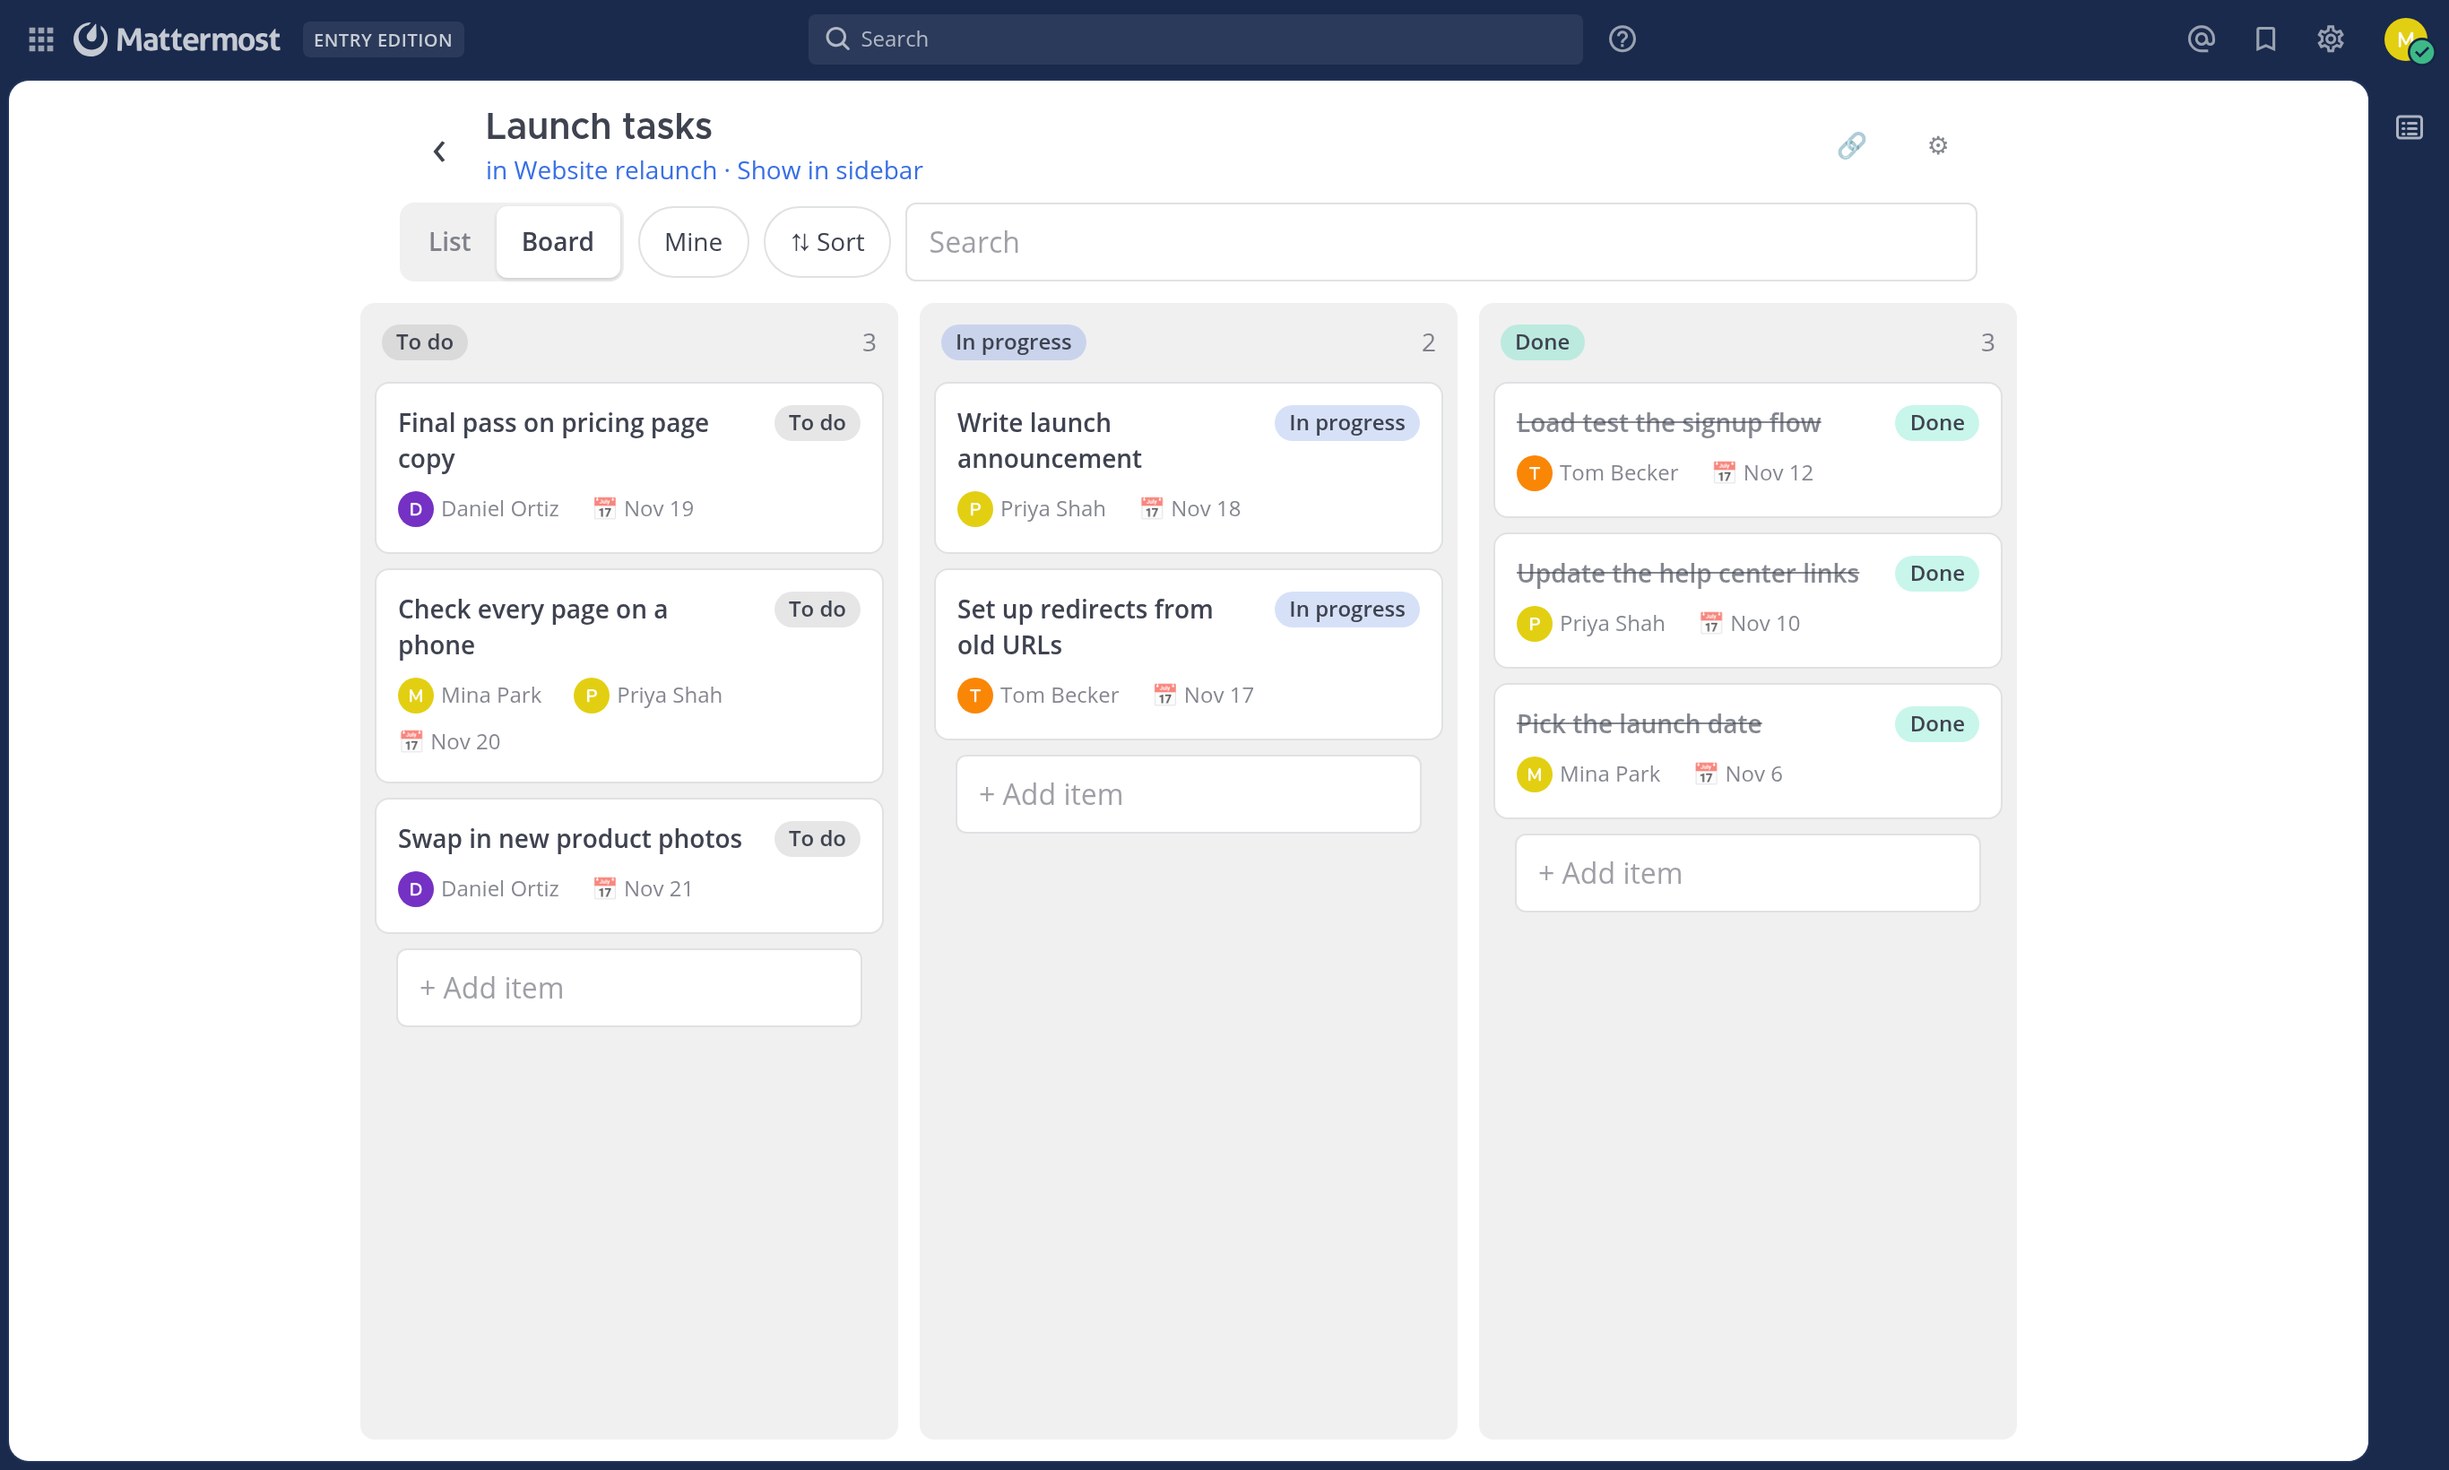
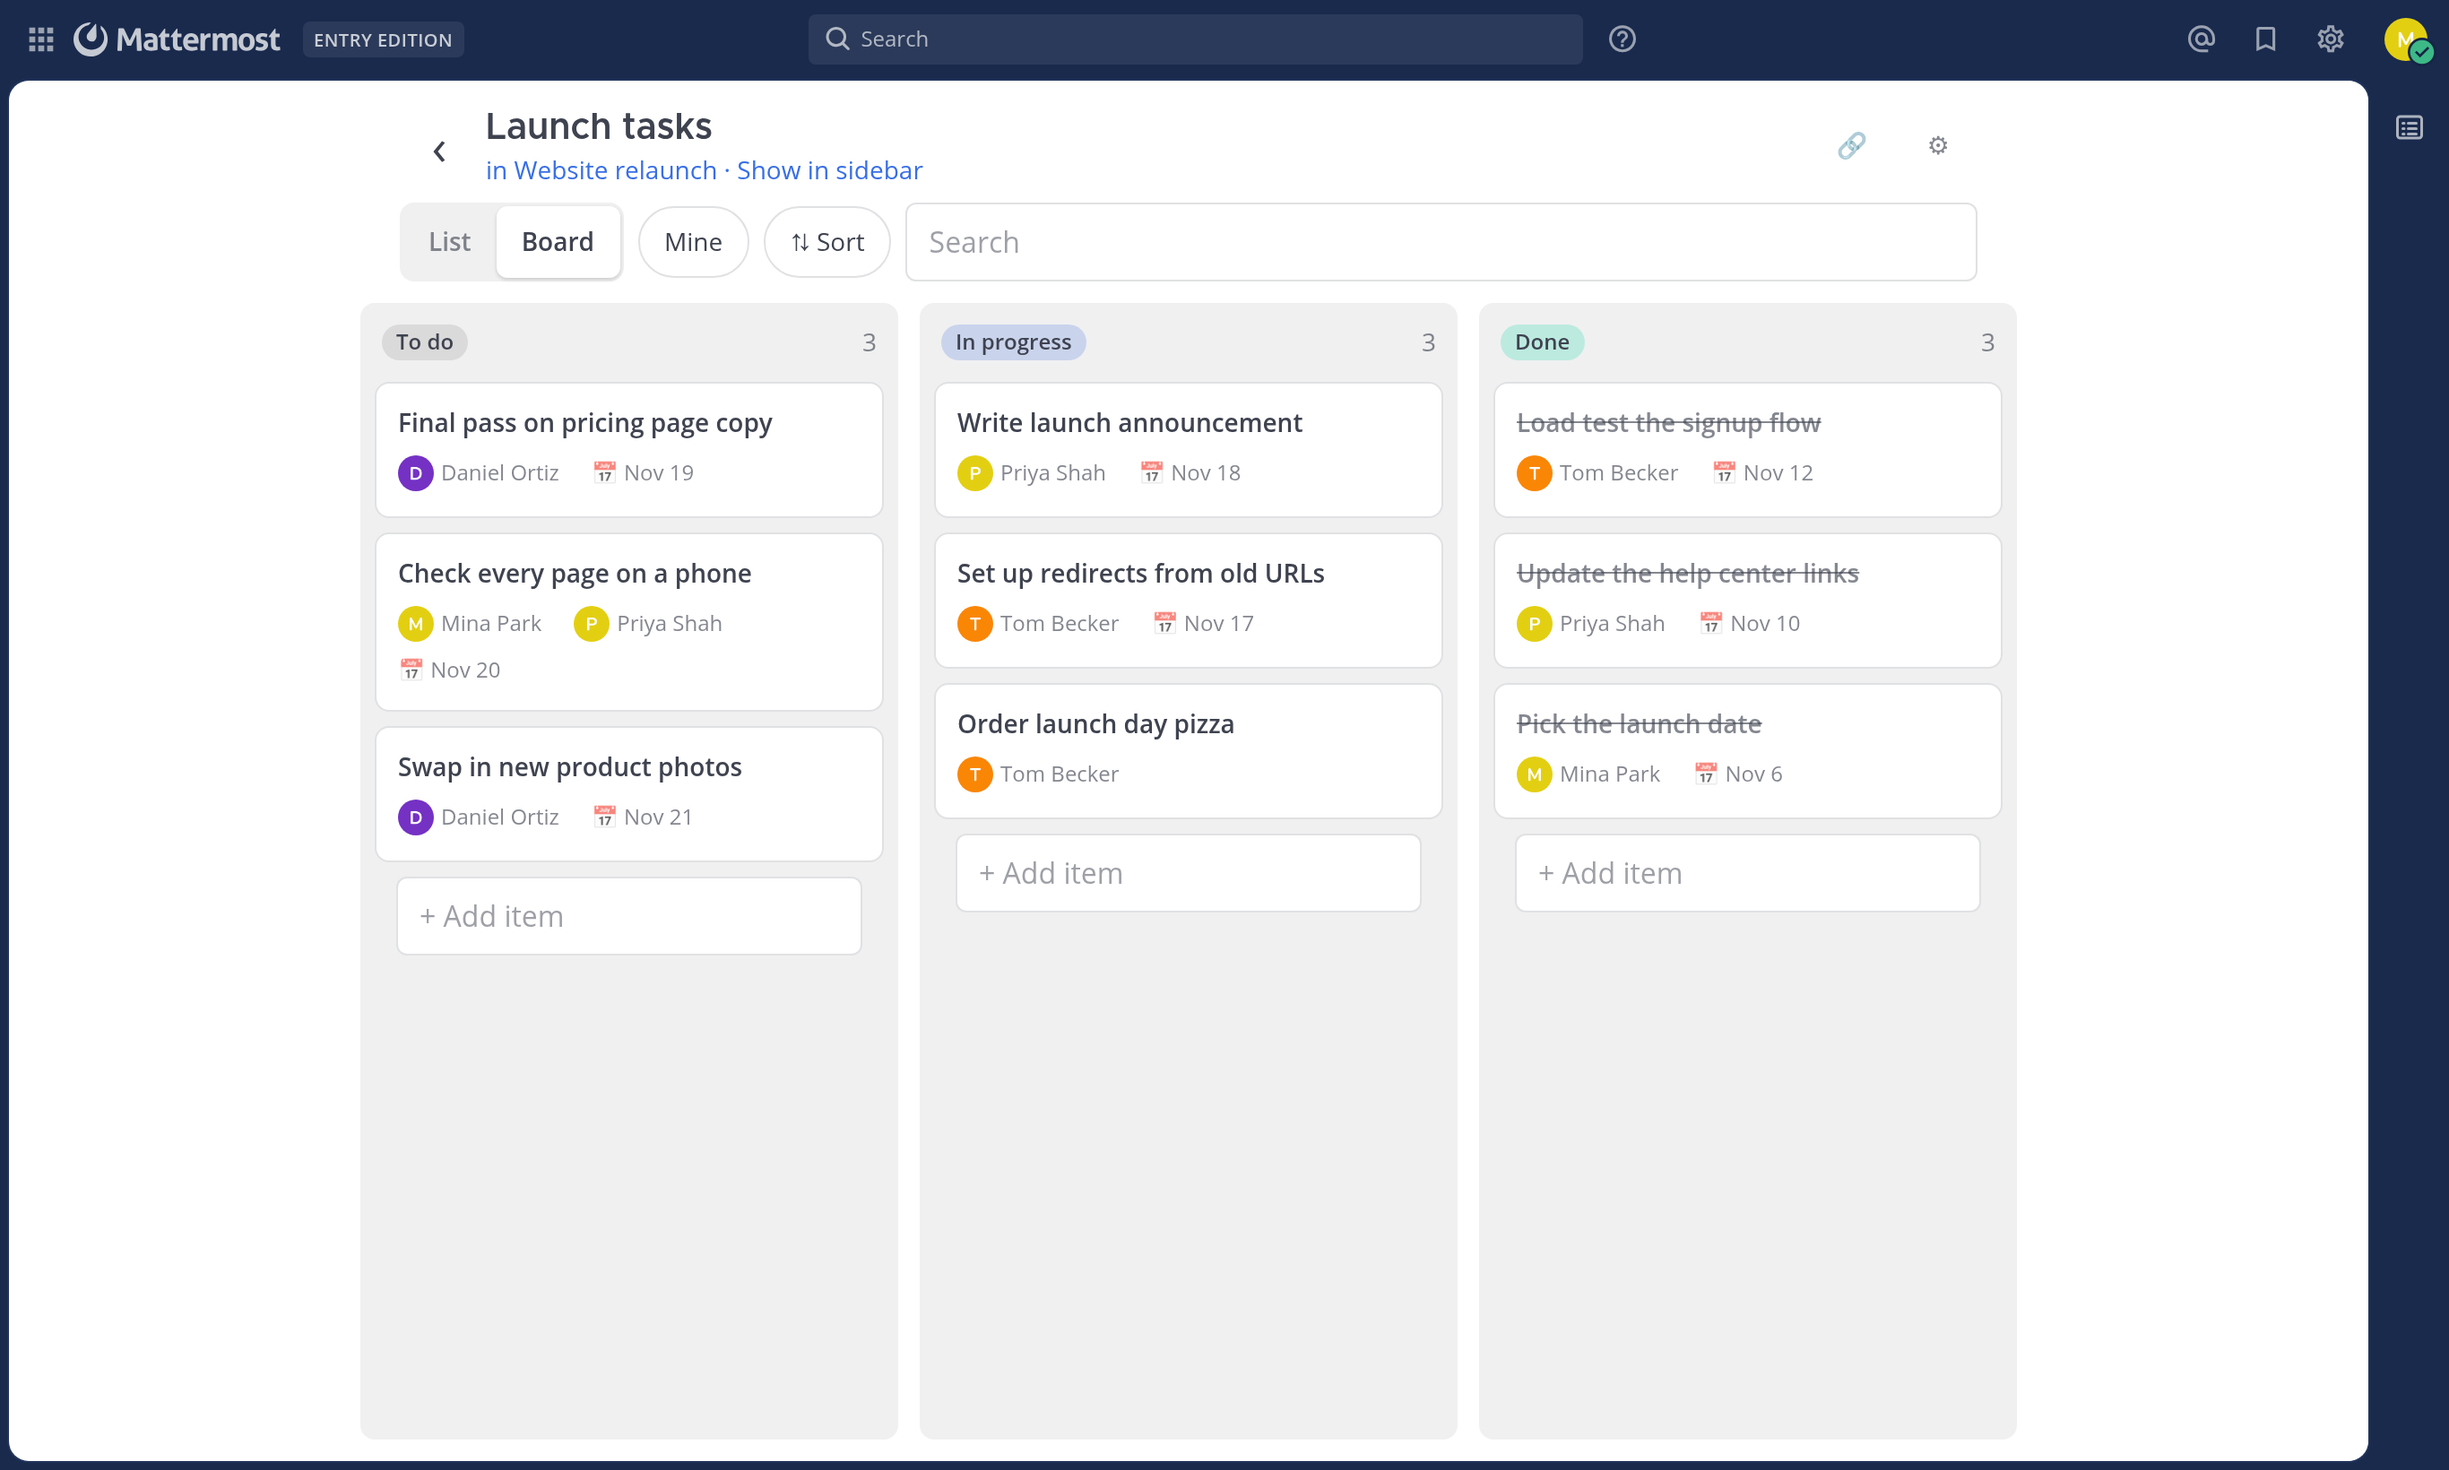
README: drag-and-drop demo GIF; board screenshots without the status chip

diff --git a/README.md b/README.md
@@ -21,7 +21,11 @@ Lightweight lists for Mattermost channels, designed for phone browsers first: ta
 
 ## Screenshots
 
-On a phone: list, board, and editing an item.
+On a phone: press and hold a card to drag it up the list, then across to another board column.
+
+<img src="docs/images/drag-phone.gif" width="300" alt="On a phone, a card is long-pressed and dragged to the top of the list, then on the board a card is dragged from To do into In progress">
+
+List, board, and editing an item:
 
 ![MatterLists in a phone browser: list view, board view and the item editor](docs/images/phone.png)
 
